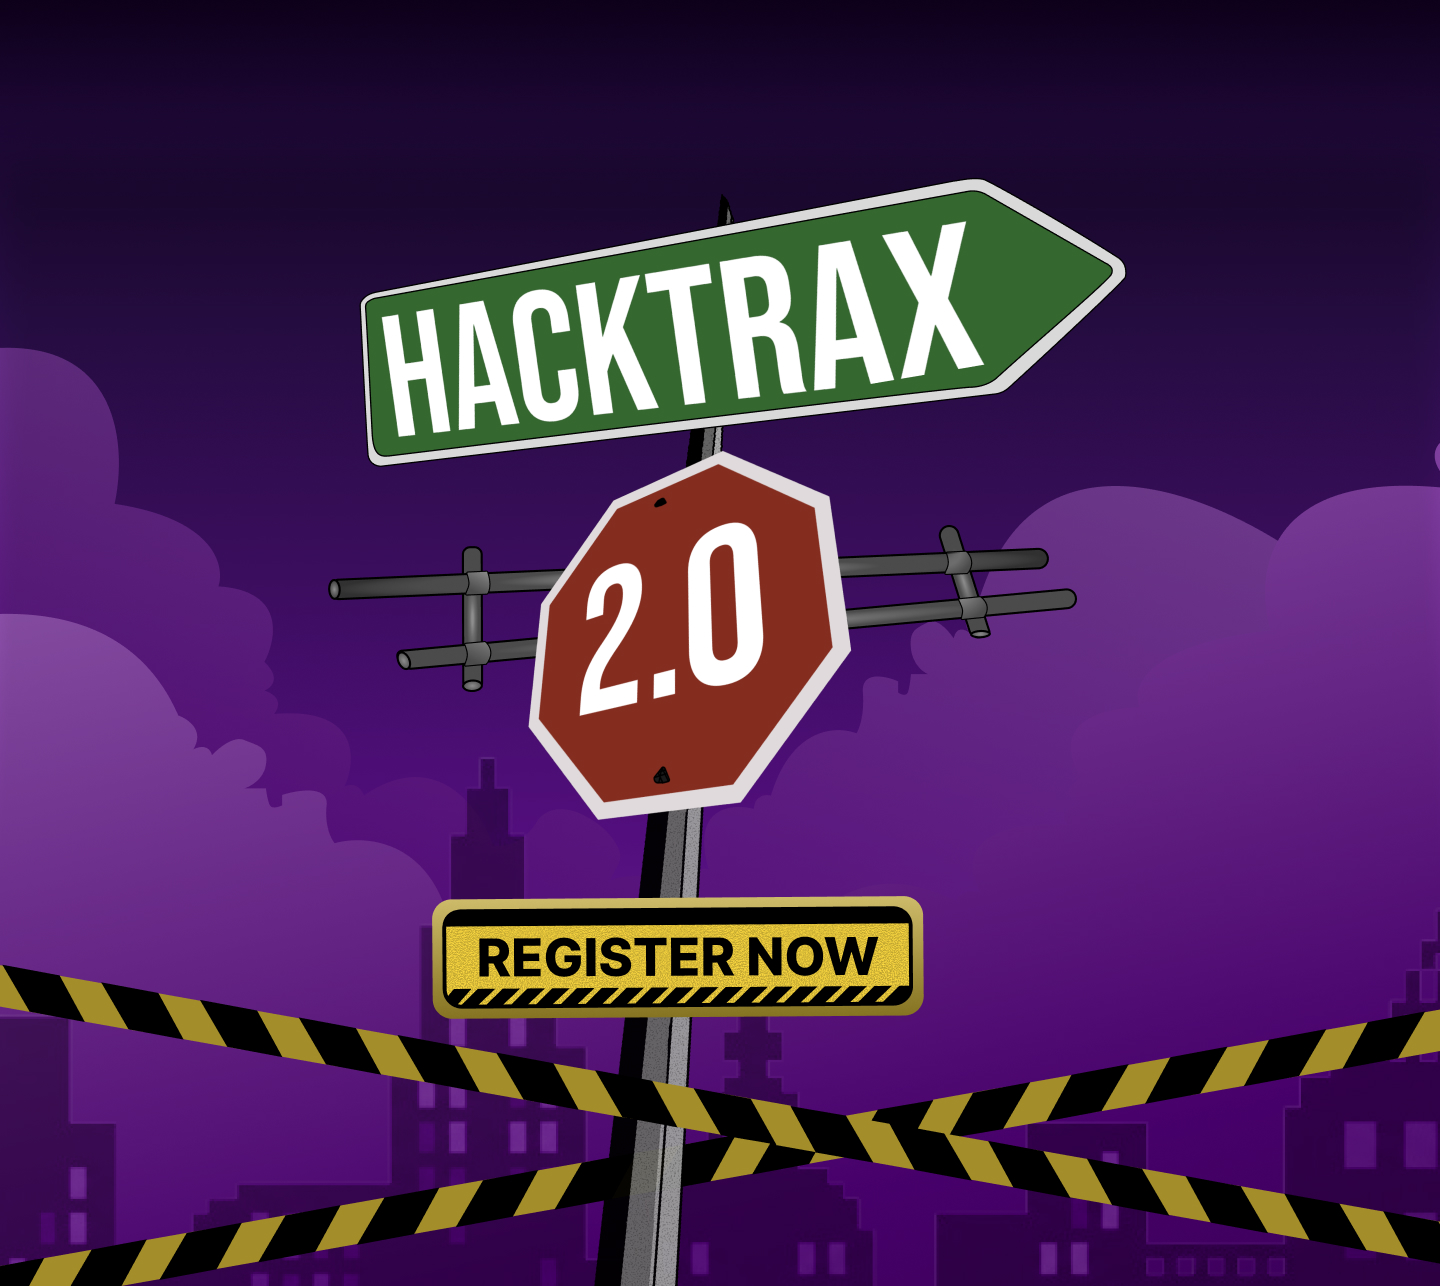
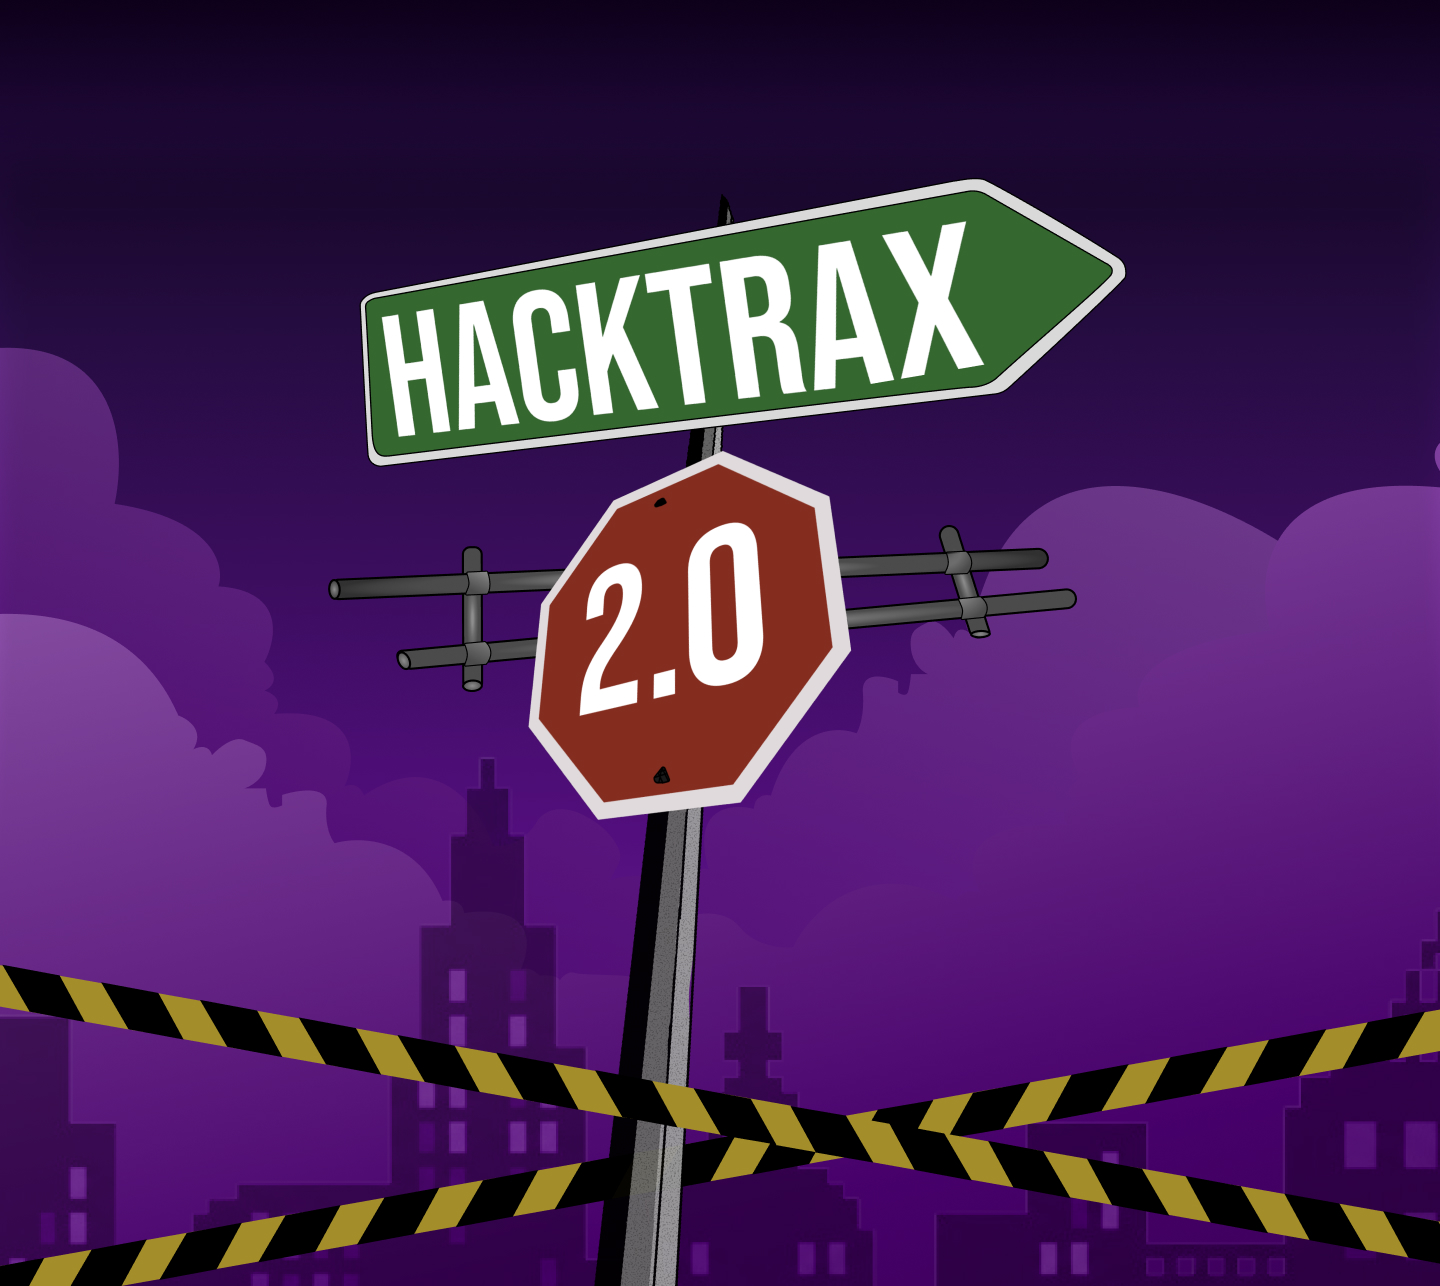
register button updated

Changed region(s): [[0.2812, 0.6843, 0.6562, 0.8087]]

diff --git a/src/components/hacktrax-v2/HeroSection.tsx b/src/components/hacktrax-v2/HeroSection.tsx
@@ -189,16 +189,16 @@ const HeroSection: React.FC = () => {
             />
           </div>
 
-          {/* <button
+          <button
             onClick={() => scrollToSection('formSection')}
-            className="absolute top-[915px] left-[47%] -translate-x-1/2 rotate-[0.41deg] z-[1]"
+            className="absolute top-[950px] left-[47%] -translate-x-1/2 rotate-[0.41deg] z-[1] cursor-pointer"
           >
             <img
               src="/hacktrax-v2/RegisterButton.svg"
               alt="Register Button"
               className="w-[560px] h-[135px] object-contain"
             />
-          </button> */}
+          </button>
         </>
       )}
 
